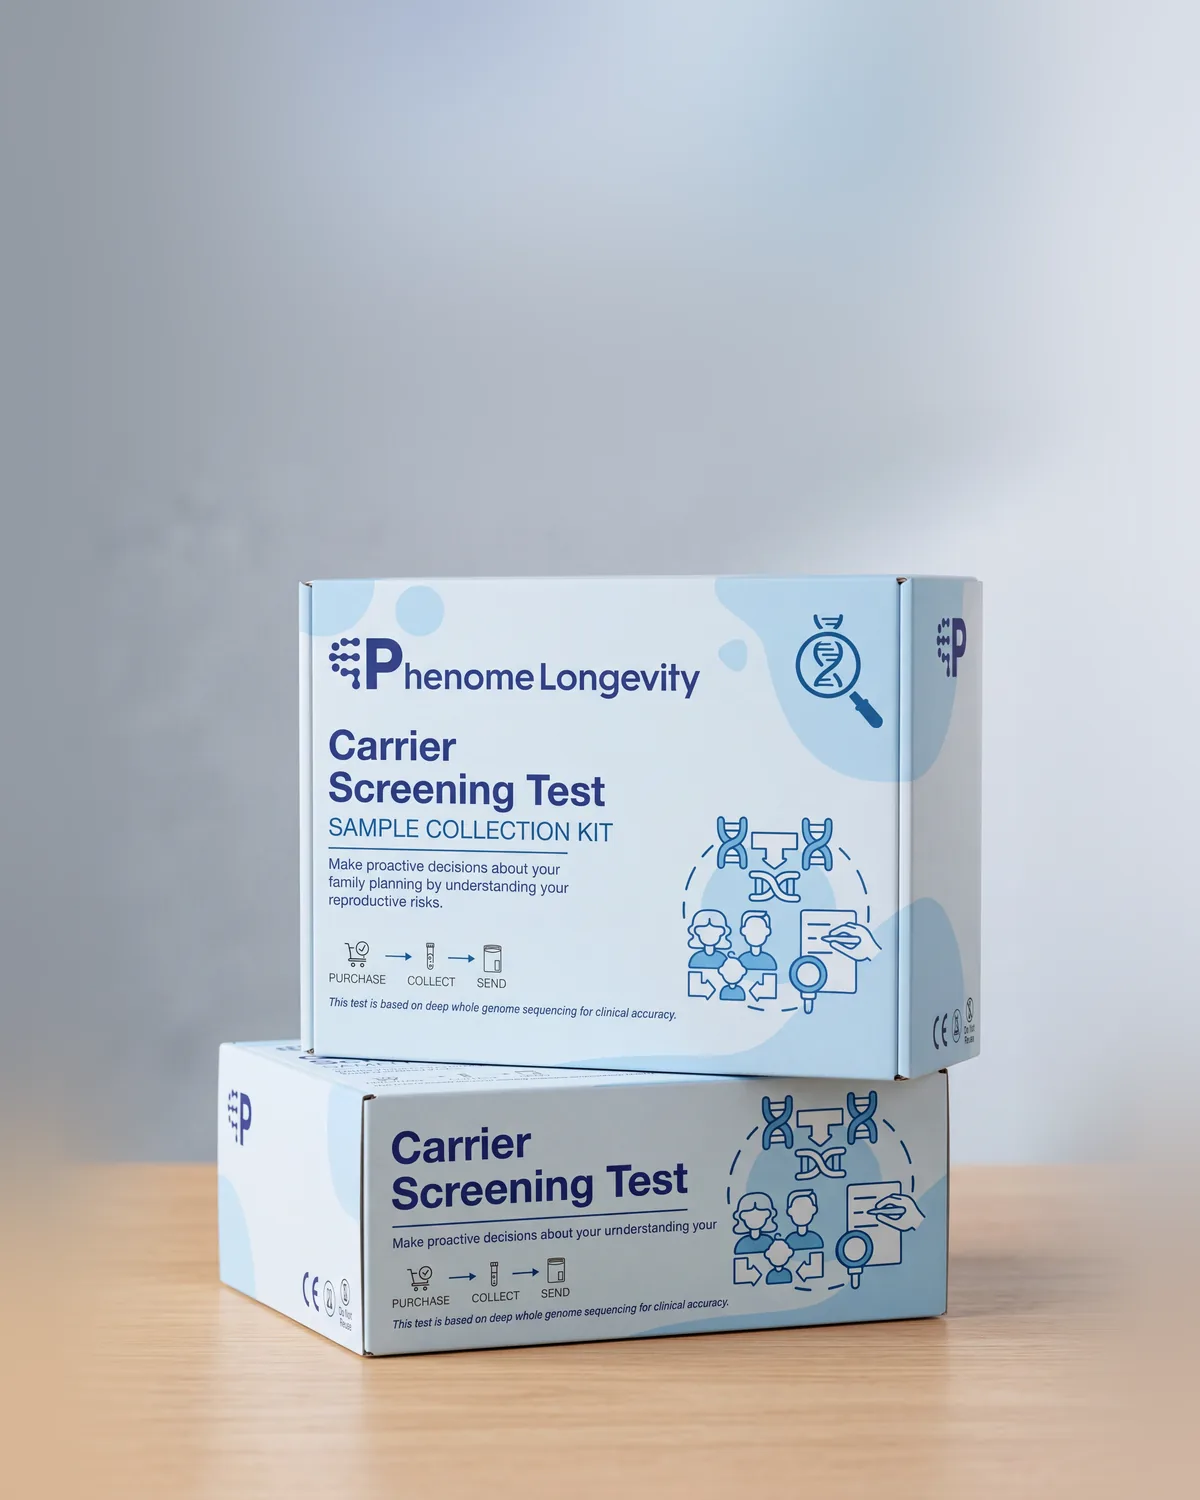
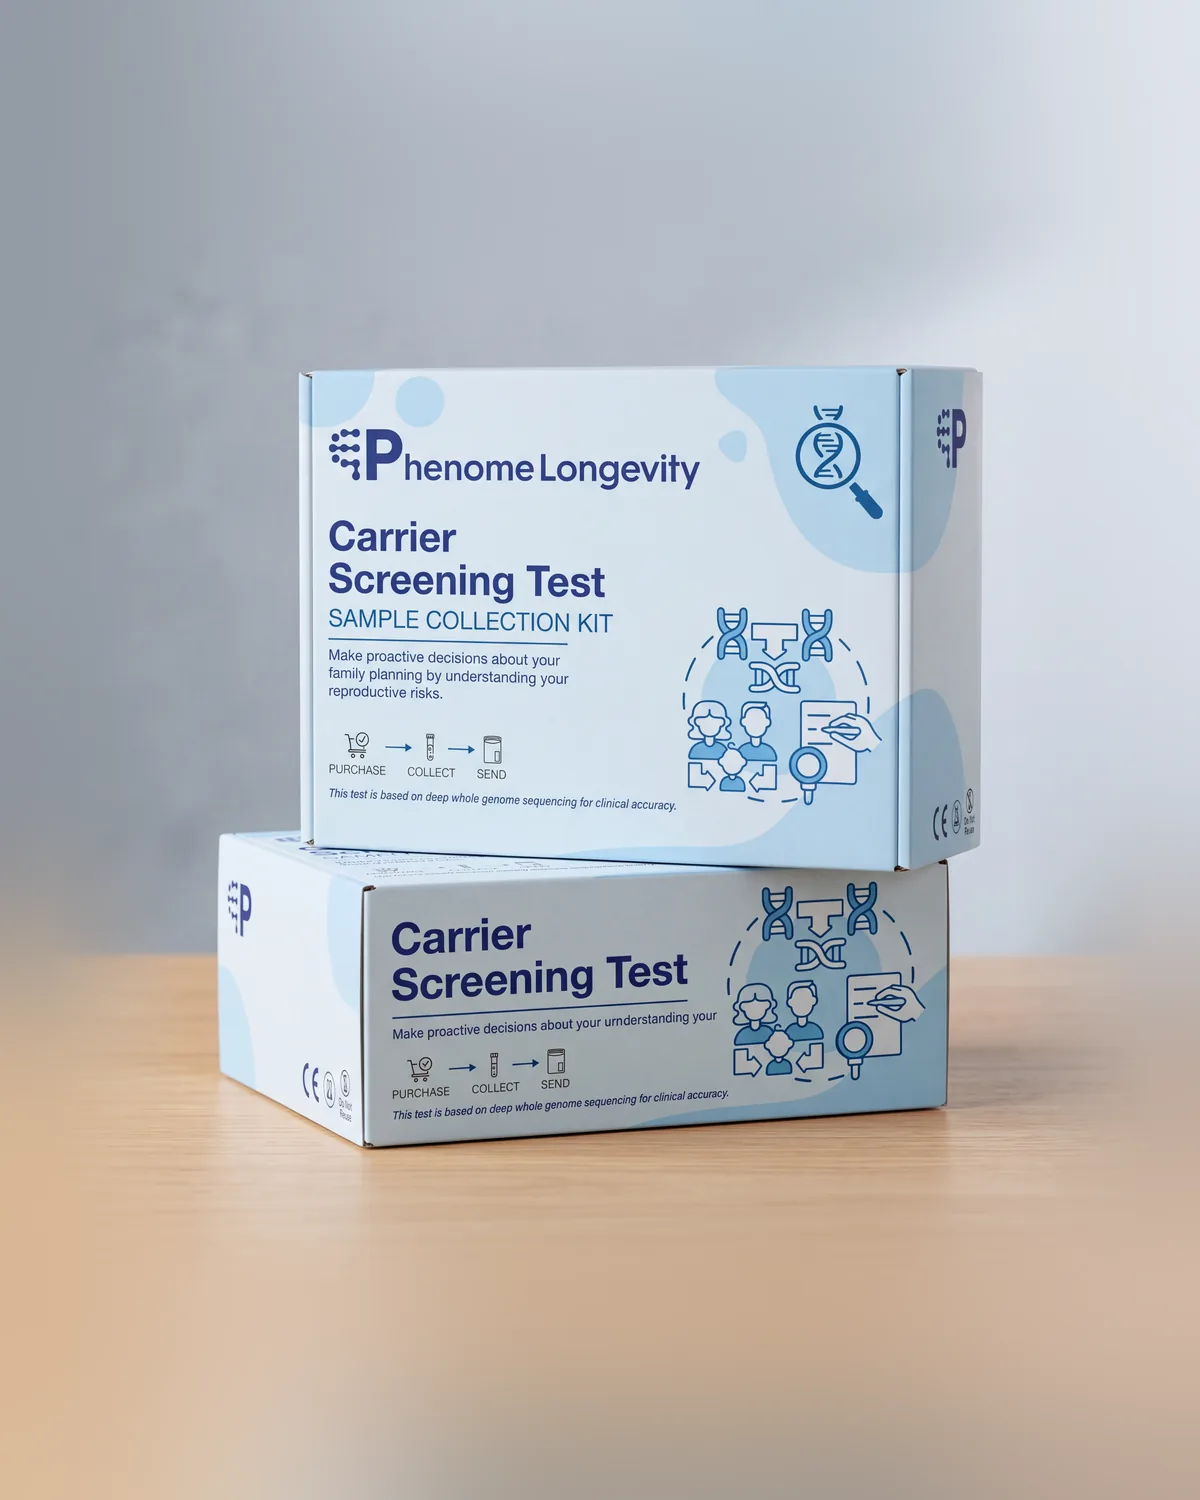
style(store): carrier gallery opens on the bedside shot, kits centred in frame

diff --git a/testing/carrier-screening/index.html b/testing/carrier-screening/index.html
@@ -14,7 +14,7 @@
      sheet and script are LINKED, not copied, so a change there reaches every
      test page. Everything here is this test's own words and pictures. -->
 <link href="/phenome-store/testing/comprehensive-genomic/cg.css" rel="stylesheet"/>
-<link rel="preload" as="image" href="/phenome-store/assets/carrier/gal-studio.webp" fetchpriority="high"/>
+<link rel="preload" as="image" href="/phenome-store/assets/carrier/gal-bed.webp" fetchpriority="high"/>
 
 </head>
 <body class="cgp" data-dock-thumb="/phenome-store/assets/shop/test-carrier.webp" data-dock-meta="£390, results in 2 to 3 weeks">
@@ -57,19 +57,19 @@
 <div class="cg-gal-main" data-gal-main="" role="region" aria-roledescription="carousel" aria-label="Kit images">
 <div class="cg-gal-track" data-gal-track="">
 <div class="cg-slide" data-slide="" data-n="0" role="group" aria-roledescription="slide" aria-label="1 of 9">
-<img alt="The Carrier Screening Test kit on a pale wooden shelf" fetchpriority="high" height="1500" src="/phenome-store/assets/carrier/gal-studio.webp" width="1200"/>
+<img alt="The Carrier Screening Test kit on a bedside table in morning light" fetchpriority="high" height="1500" src="/phenome-store/assets/carrier/gal-bed.webp" width="1200"/>
 </div>
 <div class="cg-slide" data-slide="" data-n="1" role="group" aria-roledescription="slide" aria-label="2 of 9">
-<img alt="The Carrier Screening Test kit on a desk beside a phone showing results in the Phenome app" decoding="async" loading="lazy" height="1500" src="/phenome-store/assets/carrier/gal-app.webp" width="1200"/>
+<img alt="The Carrier Screening Test kit on a pale wooden shelf" decoding="async" loading="lazy" height="1500" src="/phenome-store/assets/carrier/gal-studio.webp" width="1200"/>
 </div>
 <div class="cg-slide" data-slide="" data-n="2" role="group" aria-roledescription="slide" aria-label="3 of 9">
-<img alt="Two Carrier Screening Test kits stacked on a table" decoding="async" loading="lazy" height="1500" src="/phenome-store/assets/carrier/gal-stack.webp" width="1200"/>
+<img alt="The Carrier Screening Test kit on a desk beside a phone showing results in the Phenome app" decoding="async" loading="lazy" height="1500" src="/phenome-store/assets/carrier/gal-app.webp" width="1200"/>
 </div>
 <div class="cg-slide" data-slide="" data-n="3" role="group" aria-roledescription="slide" aria-label="4 of 9">
-<img alt="A phone saying the screening report is ready, next to the Carrier Screening Test kit" decoding="async" loading="lazy" height="1500" src="/phenome-store/assets/carrier/gal-ready.webp" width="1200"/>
+<img alt="Two Carrier Screening Test kits stacked on a table" decoding="async" loading="lazy" height="1500" src="/phenome-store/assets/carrier/gal-stack.webp" width="1200"/>
 </div>
 <div class="cg-slide" data-slide="" data-n="4" role="group" aria-roledescription="slide" aria-label="5 of 9">
-<img alt="The Carrier Screening Test kit on a bedside table in morning light" decoding="async" loading="lazy" height="1500" src="/phenome-store/assets/carrier/gal-bed.webp" width="1200"/>
+<img alt="A phone saying the screening report is ready, next to the Carrier Screening Test kit" decoding="async" loading="lazy" height="1500" src="/phenome-store/assets/carrier/gal-ready.webp" width="1200"/>
 </div>
 <div class="cg-slide" data-slide="" data-n="5" role="group" aria-roledescription="slide" aria-label="6 of 9">
 <img alt="The Carrier Screening Test kit on a round display stand" decoding="async" loading="lazy" height="1500" src="/phenome-store/assets/carrier/gal-stand.webp" width="1200"/>
